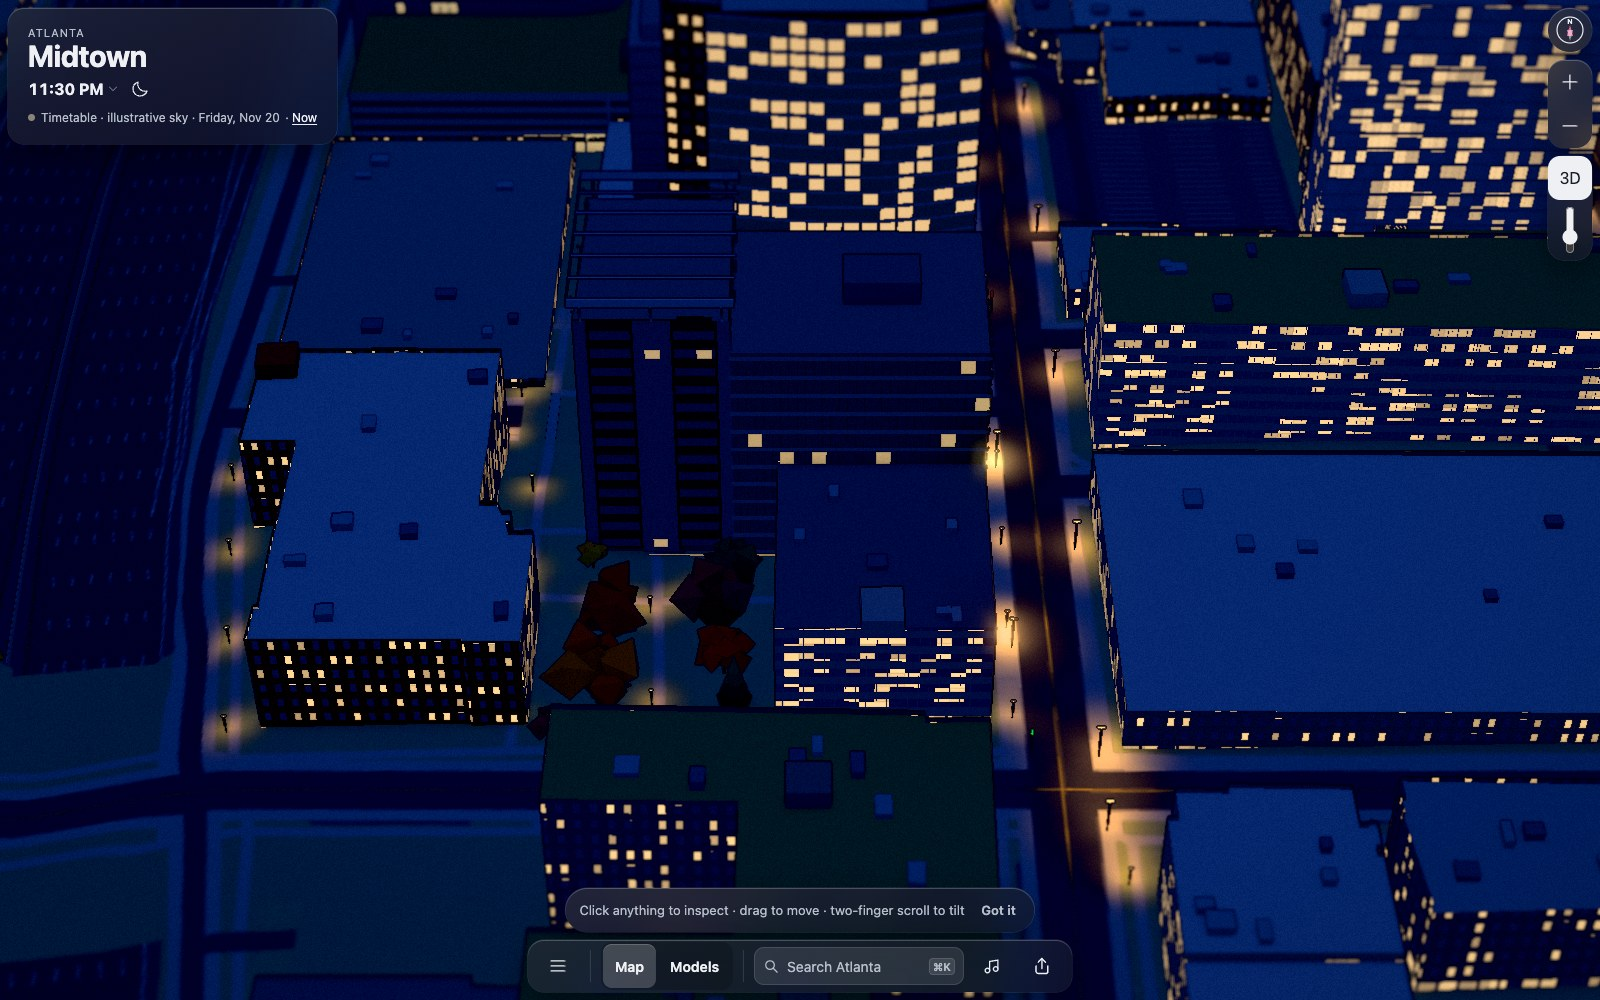
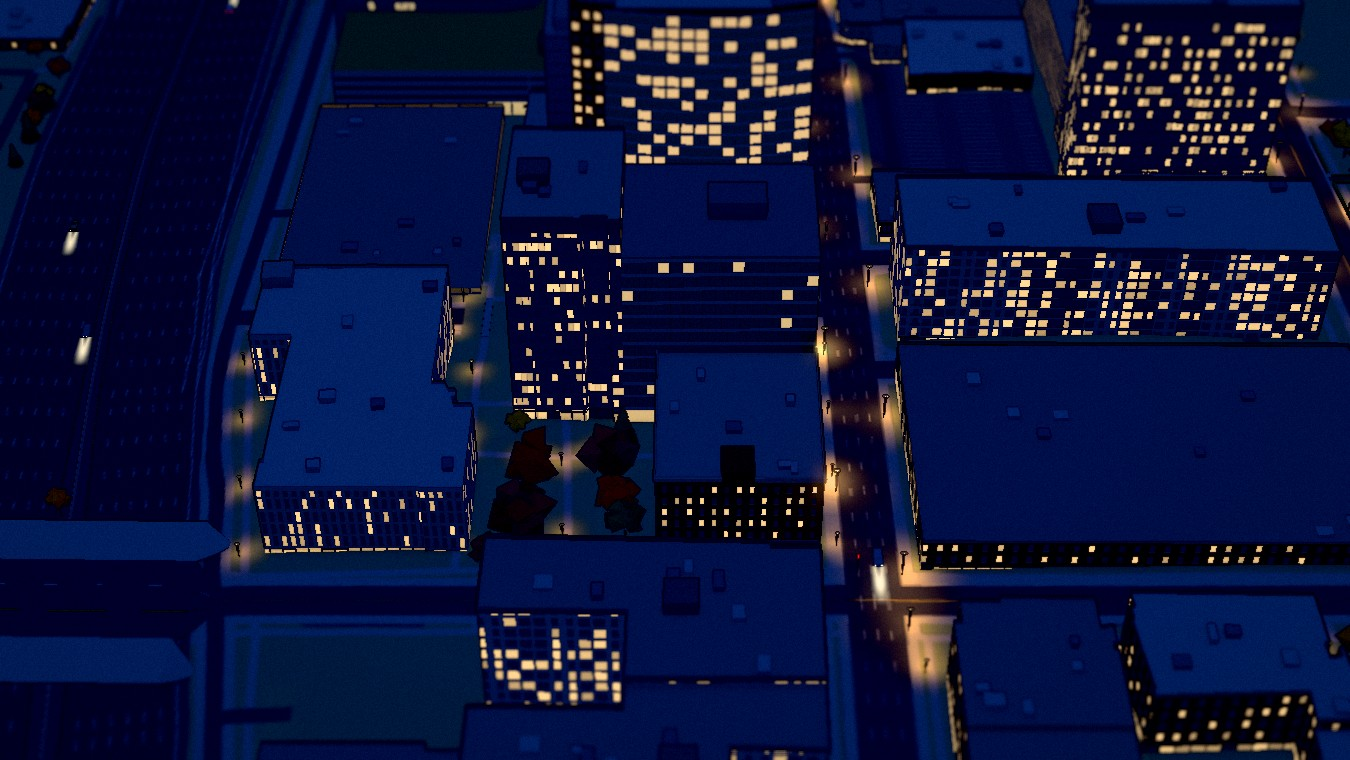
Centergy rework stills, matched day and night without #578

diff --git a/docs/log/ui/centergy-wing/README.md b/docs/log/ui/centergy-wing/README.md
@@ -36,3 +36,12 @@ The bearing is the view heading. The close view adds `&dev&mindist=20`.
 ## Rework (2026-11-27)
 
 The facade layers (floor bands, mullions, lit panes, lobby glass) were drawn on the wing's bounding box. The south face therefore stood 0.32 m inside `osm:way:792229255` (h 23 m) from grade+6 m to that block's roof, and missed the true north and east walls by 0.30 and 0.56 m. They now follow the mapped ring edges. The west party wall shared with Centergy One stays bare, and any edge a neighbour covers starts at the first floor band above that neighbour's roof. The wing's lit panes now use Nine15 Midtown's and University House's lamp look (`#f2d6a8` at 0.66, was `#f5d8a8` at 0.5), so they share those buildings' night draw in the same 500 m batch cell. Without that the wing cost one High night call, and night calls are at the 630 cap.
+
+The day, night and close captures above are retaken on the rework head, without #578. Matched BEFORE (`6d348bc3`) and AFTER, high tier:
+
+![South face, close](rework-close.jpg)
+`226,-2632,0,40,140` with `&dev&mindist=20`: the bands now meet the south block's roof and run the full mapped edge. The roof stands 3.4 m higher, at the lidar grade.
+
+![The pair, looking north](rework-south.jpg)
+![From the east](rework-east.jpg)
+`215,-2632,0,50,500` and `226,-2632,270,55,420`, at 11:30 and 23:30.
